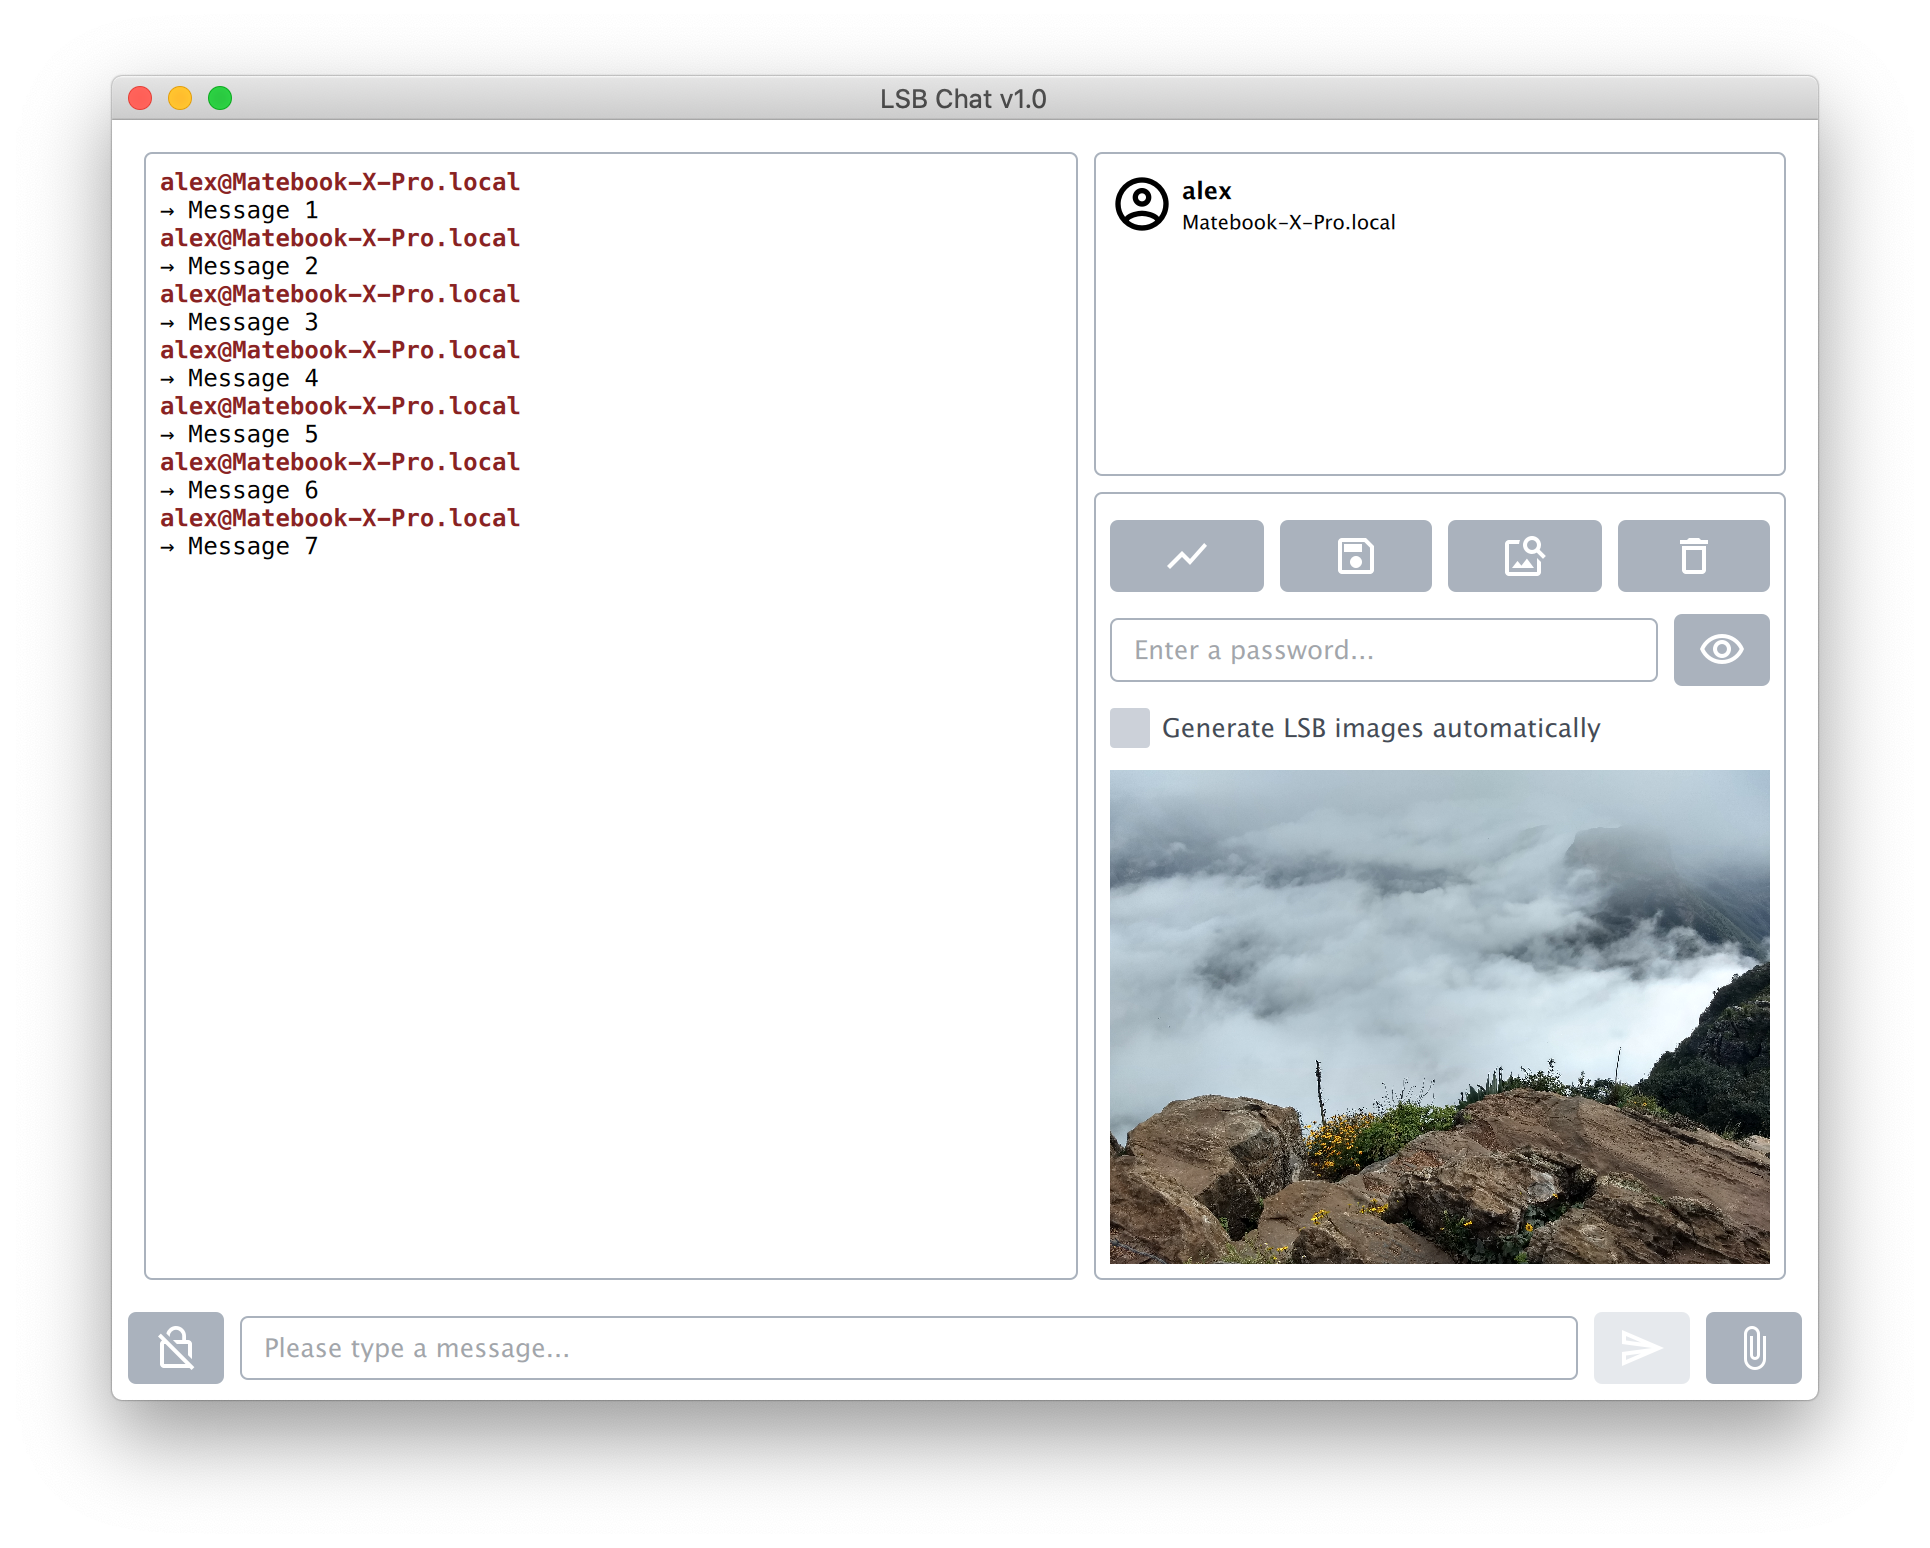
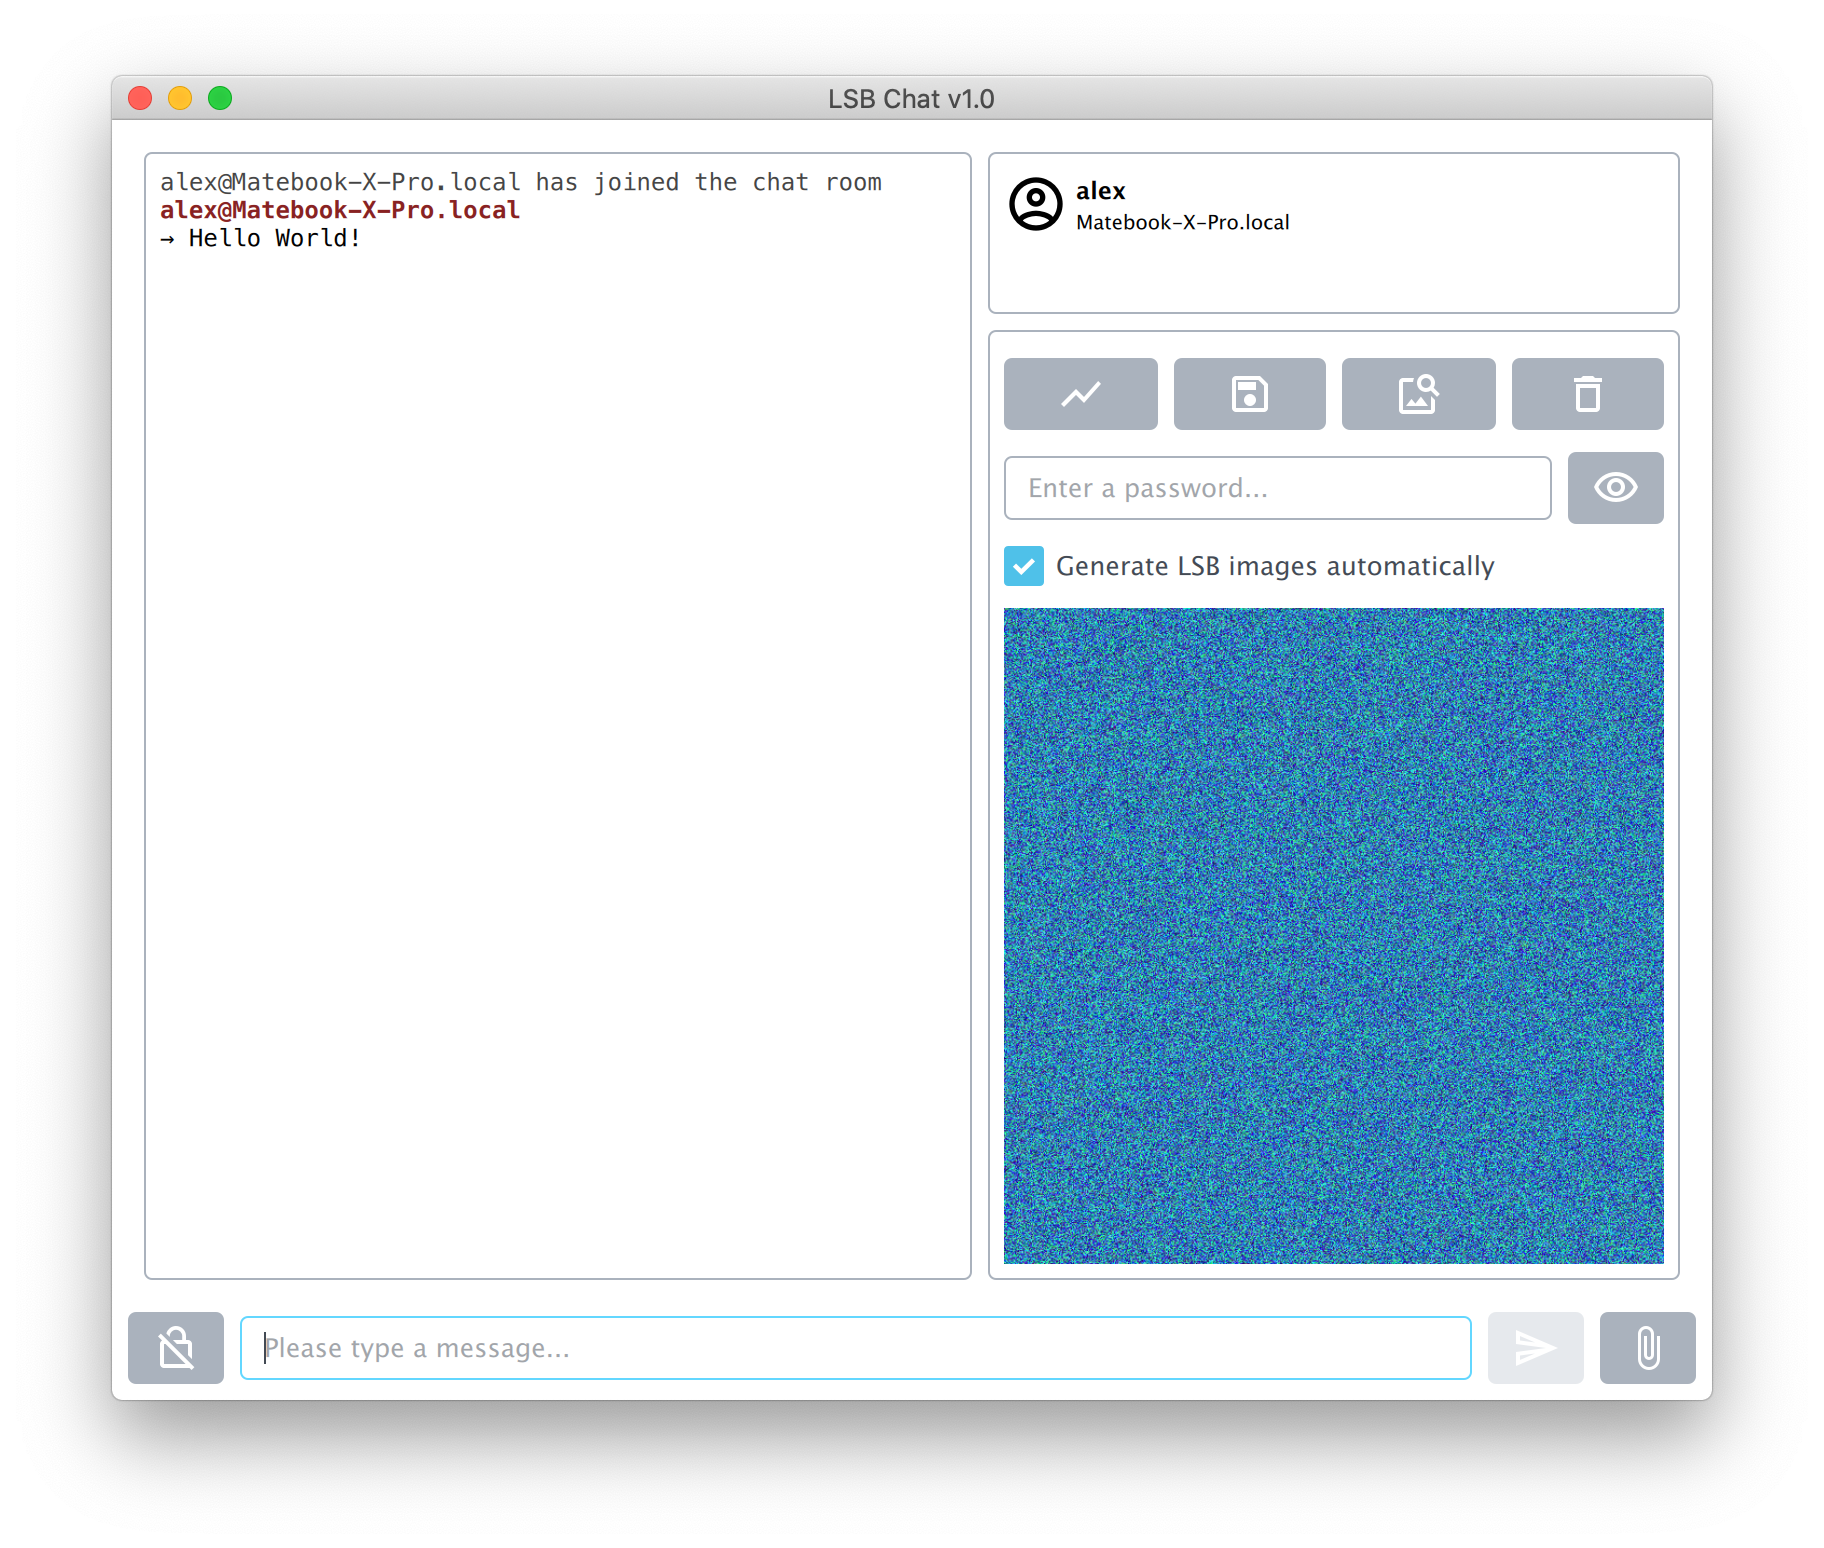
Update LSB code

diff --git a/assets/qml/Widgets/ChatRoom.qml b/assets/qml/Widgets/ChatRoom.qml
@@ -227,7 +227,7 @@ Item {
     TextField {
         id: lsbImage
 
-        height: sidebarSize + 48
+        height: sidebarSize + 129
         readOnly: true
         width: sidebarSize
 

diff --git a/src/LSB/LSB.cpp b/src/LSB/LSB.cpp
@@ -78,10 +78,17 @@ QImage LSB::currentImageData()
 
 QImage LSB::encodeData(const QByteArray& data)
 {
+   // Append data size to start
+   QByteArray injection;
+   injection.append("$");
+   injection.append(QString::number(data.length()));
+   injection.append("$");
+   injection.append(data);
+
    // Reset images (generate random image case)
    if(useGeneratedImages() || (SOURCE_IMAGE.width() == 0 && SOURCE_IMAGE.height() == 0)) {
       // Resize image to data size
-      const int size = data.length() * 8 + 120;
+      const int size = injection.length() * 4;
       LSB_IMAGE = QImage(QSize(size, size), QImage::Format_RGB32);
       LSB_IMAGE_DATA = QImage(QSize(size, size), QImage::Format_RGB32);
 
@@ -108,20 +115,13 @@ QImage LSB::encodeData(const QByteArray& data)
             LSB_IMAGE_DATA.setPixel(i, j, qRgb(0, 0, 0));
    }
 
-   // Append data size to start
-   QByteArray injection;
-   injection.append("$");
-   injection.append(QString::number(data.length()));
-   injection.append("$");
-   injection.append(data);
-
    // Write data to image using LSB
    int bytesWritten = 0;
    int diagonalSize = qMin(LSB_IMAGE.width(), LSB_IMAGE.height());
    for(int i = 0; i < diagonalSize; ++i) {
-       // We have written all data, exit loop
-      if (bytesWritten >= injection.length())
-          break;
+      // We have written all data, exit loop
+      if(bytesWritten >= injection.length())
+         break;
 
       // Get byte & pixel value
       char byte = injection.at(bytesWritten);
@@ -131,8 +131,8 @@ QImage LSB::encodeData(const QByteArray& data)
 
       // Get individual bits
       int bits[8];
-      for (int i = 0; i < 8; ++i)
-          bits[i] = ((1 << (i % 8)) & byte) >> (i % 8);
+      for(int i = 0; i < 8; ++i)
+         bits[i] = ((1 << (i % 8)) & byte) >> (i % 8);
 
       // Write on LSBs of each byte of the image
       QRgb lsbPixel1 = qRgb((qRed(pixel1)   & 0xFE) | bits[0],

diff --git a/src/QmlBridge.cpp b/src/QmlBridge.cpp
@@ -32,9 +32,9 @@
 #include <QDesktopServices>
 
 /*
- * Set maximum file size limit to 60 MB
+ * Set maximum transfer limit to 1 Kb (due to forced inefficient LSB alg.)
  */
-static qint64 FILE_SIZE_LIMIT = 60 * 1024 * 1024;
+static qint64 MAX_TRANSFER_SIZE = 1 * 1024;
 
 /**
  * @brief GET_JSON_DATA
@@ -130,7 +130,7 @@ void QmlBridge::sendFile()
    QByteArray fileData;
    if(file.open(QFile::ReadOnly)) {
       // File is too large, abort
-      if(file.size() > FILE_SIZE_LIMIT) {
+      if(file.size() > MAX_TRANSFER_SIZE) {
          QMessageBox::warning(Q_NULLPTR,
                               tr("File too large"),
                               tr("The file is too large to be sent, sorry"));
@@ -301,6 +301,14 @@ void QmlBridge::sendMessage(const QString& text)
    // Text is empty abort
    if(text.isEmpty())
       return;
+
+   // Check text size
+   if(text.length() > MAX_TRANSFER_SIZE) {
+      QMessageBox::warning(Q_NULLPTR,
+                           tr("Message too large"),
+                           tr("The message is too large to be sent, sorry"));
+      return;
+   }
 
    // Encrypt the text (if required) and encode it with Base64
    bool encryptionOk;

diff --git a/src/Comms/P2P_Manager.h b/src/Comms/P2P_Manager.h
@@ -37,7 +37,8 @@ class P2P_Manager : public QObject
 {
       Q_OBJECT
 
-   public: P2P_Manager(NetworkComms* comms);
+   public:
+      P2P_Manager(NetworkComms* comms);
 
       QString userName() const;
       void startBroadcasting();

diff --git a/README.md b/README.md
@@ -29,12 +29,9 @@ For example, here is a comparison between an image that has been "touched" by th
 
 ![Screenshot](doc/LSB_Composite.png)
 
-And the corresponding "data only" image:
+For more clarity, below you can find the image with only the pixels that have been modified to acommodate data (check the diagonal line of the image):
 
 ![Screenshot](doc/LSB_Data.png)
-
-*Note:* check the leftmost part of both images. In this case, the LSB algorithm must be improved. For the moment, we write data only on the red pixels, but we do it byte-by-byte, not bit-by-bit.  
-
 
 ### TODOs
 
